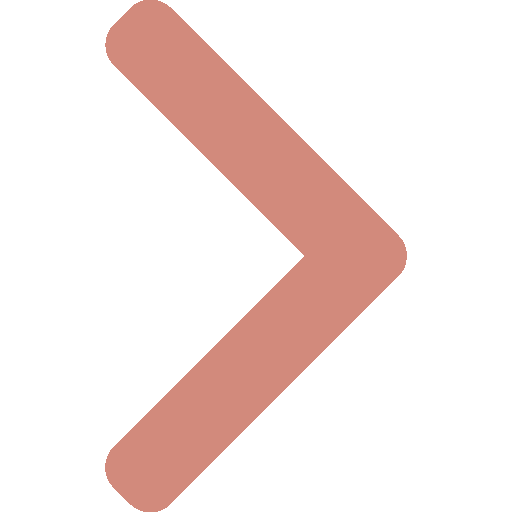
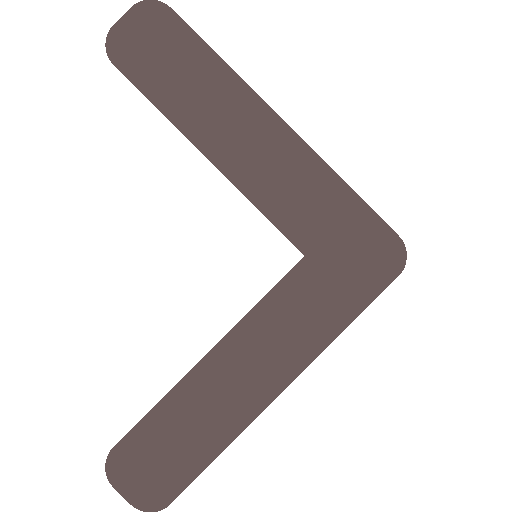
minor color changes

Changed region(s): [[0.1875, 0.0, 0.8125, 1.0]]

diff --git a/comps/resourcemenu.js b/comps/resourcemenu.js
@@ -28,7 +28,7 @@ const ResourceOutline = styled.div`
 width: 230pt;
 height: 250pt;
 background-color:#DAE5E7;
-border: 1px solid black;
+border: 3px solid #6F5F5E;
 border-radius: 26px;
 box-sizing:content-box !important;
 overflow-y:auto;
@@ -95,7 +95,7 @@ export function ResourceMenu(){
     border-color: black;
     font-size:16pt;
     width: 115pt;
-    border-radius: 25px 0px 0px 0px;
+    border-radius: 22px 0px 0px 0px;
     border:none;
     background-color:${background};
     padding: 5pt 15pt 5pt 15pt;
@@ -103,7 +103,7 @@ export function ResourceMenu(){
     margin-bottom: 45px;
     `
     const rightbutton = {
-    borderRadius:"0px 25px 0px 0px",
+    borderRadius:"0px 22px 0px 0px",
     backgroundColor:"#D28A7C"
     }
     
@@ -129,15 +129,15 @@ export function ResourceMenu(){
             <ResourceOutline>
 
                 <ToggleButton 
-                onClick={ () => { setFav("number"); ;} } style= {fav === "number" ? {backgroundColor: "#8E6057", boxShadow:"inset 0 0 4px black"} : {backgroundColor: "#D28A7C"}}>
-                    <FontAwesomeIcon icon={faPhone} size="1x" color= {fav === "number" ? "#D28A7C" :  "#8E6057"} style={{marginRight: "5px"}}> </FontAwesomeIcon> 
+                onClick={ () => { setFav("number"); ;} } style= {fav === "number" ? {backgroundColor: "#6F5F5E", boxShadow:"inset 0 0 4px black"} : {backgroundColor: "#D28A7C"}}>
+                    <FontAwesomeIcon icon={faPhone} size="1x" color= {fav === "number" ? "#D28A7C" :  "#6F5F5E"} style={{marginRight: "5px"}}> </FontAwesomeIcon> 
                     NUMBERS 
                 </ToggleButton>
                 
                 <ToggleButton
                 style= {rightbutton}
-                onClick={ () => {setFav("link");} } style= {fav === "link" ? {backgroundColor: "#8E6057",   borderRadius:"0px 25px 0px 0px", boxShadow:"inset 0 0 4px black"} : {backgroundColor: "#D28A7C",   borderRadius:"0px 25px 0px 0px",}}>
-                    <FontAwesomeIcon icon={faLink} size="1x" color= {fav === "link" ? "#D28A7C" :  "#8E6057"} style={{marginRight: "5px"}}> </FontAwesomeIcon> 
+                onClick={ () => {setFav("link");} } style= {fav === "link" ? {backgroundColor: "#6F5F5E",   borderRadius:"0px 22px 0px 0px", boxShadow:"inset 0 0 4px black"} : {backgroundColor: "#D28A7C",   borderRadius:"0px 22px 0px 0px",}}>
+                    <FontAwesomeIcon icon={faLink} size="1x" color= {fav === "link" ? "#D28A7C" :  "#6F5F5E"} style={{marginRight: "5px"}}> </FontAwesomeIcon> 
                      LINKS 
                 </ToggleButton>
                 <ListBox>
